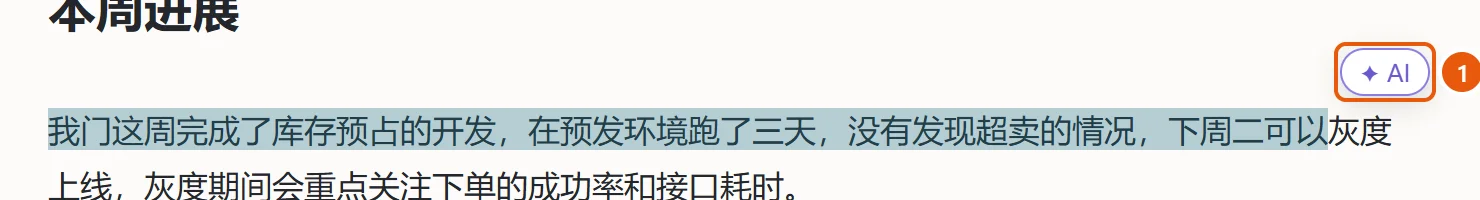
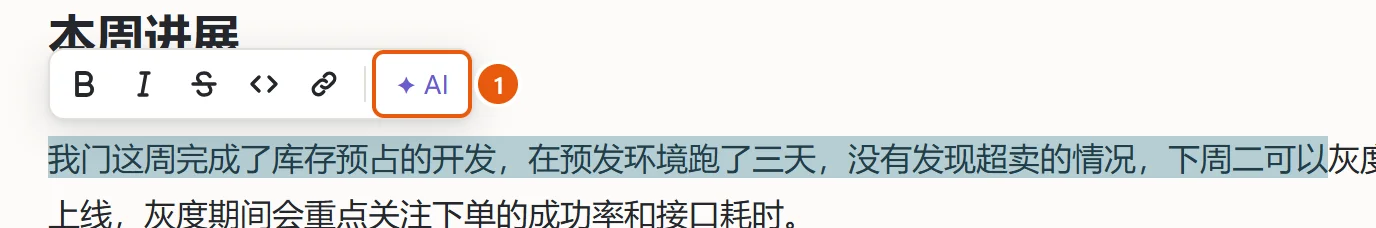
2.3.0、2.4.0：同步更新日志；使用指南加上格式工具条

Changed region(s): [[0.0312, 0.0, 1.0, 0.78], [0.0312, 0.84, 0.5938, 1.0], [0.875, 0.18, 1.0, 0.54]]

diff --git a/src/content/changelog.md b/src/content/changelog.md
@@ -1,5 +1,68 @@
 <!-- 由 scripts/sync.mjs 从主仓库 docs/CHANGELOG.md 生成，不要手改 -->
 
+## 2.4.0 — 2026-10-30
+
+选中文字后，上方出现格式工具条：加粗、加链接点一下就好，不用记快捷键，也不用看 Markdown 符号。
+
+### 格式工具条
+
+- 实时预览和分栏里，选中文字停一下，选区上方出现工具条：加粗、斜体、删除线、行内代码、链接；配了 AI 模型时还有「✦ AI」（原来选区旁单独的「✦ AI」按钮并进了这里）
+- 选中的字已经是某种格式时，按钮是按下的样子，再点就去掉；点完选区还在，可以接着点别的，每点一次 `Ctrl+Z` 撤回一步
+- 点「链接」，工具条变成网址输入框，回车写成链接；已经是链接时可以改网址，清空后回车就去掉链接、文字留下；选中的字本身是网址时直接变成链接。有选区时 `Ctrl+K` 也打开这个输入框
+- 代码块、表格里和仅源码布局里不出现；设置 → 编辑器 →「选中文字时显示格式工具条」可以关掉（原来在设置 → AI，关过的仍是关的）
+
+### 加粗等格式更顺手
+
+- 只选中粗体里的几个字，再点加粗（或 `Ctrl+B`）也能去掉整段粗体
+- 选区两头的空格不会被包进标记里；选了几段时每段分别加，不会写出跨段的标记
+- 选区只有一部分是粗体时，整段变成一个粗体
+- 行内代码里不再套别的格式
+
+### 实时预览
+
+- 选中文字时不再露出 `**`、`#` 这些符号，选中的字不会挪动；只有光标单独停在格式里时才露出
+- 在粗体里按下鼠标开始拖选时，字不会在鼠标下面挪动
+
+## 2.3.0 — 2026-10-30
+
+有了完整的使用指南，在应用里随时打开。这台电脑上装了 Claude Code 的，可以直接拿它当 AI 模型。原来只有快捷键的功能，都补上了按钮和菜单。
+
+### 使用指南
+
+- 官网新增[使用指南](https://marlin-md.cn/guide/)：26 章加附录，每个功能在哪里、怎么用、用完是什么样，配了截图
+- ☰ →「帮助」→「使用指南」打开它；设置每一页底部的「这一页的说明」打开对应的章节
+- 起始页底部有「第一次用？看看 5 分钟上手」，打开过 10 个文件后不再显示
+
+### 用本机的 Claude Code 当模型
+
+- 设置 → AI → 添加模型，选「Claude Code（用你的订阅）」：不用密钥和接口地址，用这台电脑上已登录的 Claude Code 回答
+- 它在一个空的临时文件夹里运行，不带工具、不读你的文件；取消时随即结束
+- 没登录、用量到了上限、打开了「只用本地模型」时，会说明为什么用不了
+
+### 按钮和菜单
+
+- ☰ 菜单列出全部命令和它们的快捷键：保存、另存为、关闭标签，以及编辑、视图、显示、导出几个子菜单
+- 标题栏加了撤销、重做、查找、保存按钮；侧栏加了收起按钮；放映的工具条加了「退出」
+- 编辑器右键加了「撤销」「重做」；选中文字时还有「格式」：加粗、斜体、删除线、行内代码、链接
+- 编辑器里 `Ctrl+B` 是加粗（其他地方仍是开关侧栏）；`Ctrl+Shift+Z` 也能重做
+- 新增「另存为」：标签换成新文件，文档里的相对链接按新的位置改好
+- 设置 → 快捷键：所有快捷键按场景列出，可以按功能或按键搜索
+- 去掉了容易误按的 `Ctrl+M`（按了之后 `Tab` 不再缩进）和样式不一致的 `Ctrl+Alt+G`
+
+### 表格
+
+- 正在编辑的表格里，鼠标停在行号的上下边缘、列头的左右边缘，出现「+」，点它就在那里插入一行或一列
+- 格子里换行（`Shift+Enter`）后，编辑时直接显示成两行，不再看到 `<br>`；多行的格子里 `↑` `↓` 先在格子里上下移动
+
+### 修正
+
+- 写成 `../img/x.png`（上一级目录）的图片显示不出来
+- 拉取冲突时，编辑器里冲突块的说明多了一个「的」（「下面是我的的」）
+- AI 结果在正文里逐处预览时，「✦ AI」按钮挡住预览的字
+- 状态栏「✦ Claude Code」弹出的小窗里，最后一句说明被截掉
+- 克隆对话框的「选择…」按钮折成两行
+- AI 助手（MCP）写过的文档，阅读时不能保存
+
 ## 2.2.0 — 2026-10-26
 
 每次保存都会留一份历史，随时对比、还原。Claude Code、Codex 这类 AI 助手可以通过 MCP 直接读写 Marlin 里打开的文档（预览）。

diff --git a/src/content/guide/05-editing.md b/src/content/guide/05-editing.md
@@ -71,10 +71,25 @@
 
 选中文字后：
 
-- <kbd>Ctrl+B</kbd> 加粗，<kbd>Ctrl+I</kbd> 斜体，<kbd>Ctrl+K</kbd> 插入链接
+- 上方的格式工具条（见下一节）
+- <kbd>Ctrl+B</kbd> 加粗，<kbd>Ctrl+I</kbd> 斜体，<kbd>Ctrl+K</kbd> 加链接
 - 右键 →「格式」：加粗、斜体、删除线、行内代码、链接
 
-已经是加粗的文字再按一次，就去掉加粗。没有选中文字时，插入一对标记，光标在中间，接着打字就行。
+已经是加粗的文字再按一次，就去掉加粗；只选中粗体里的几个字也一样，整段粗体都去掉。选区两头的空格不会被包进去；选了好几段时每段分别加。没有选中文字时，插入一对标记，光标在中间，接着打字就行。
+
+## 选中文字时的格式工具条
+
+在实时预览和分栏里，选中文字停一下，选区上方出现一条工具条：
+
+<a class="shot" href="../images/format-bar.webp" target="_blank"><img src="../images/format-bar.webp" alt="选中文字后出现的格式工具条" loading="lazy" decoding="async"></a>
+
+1. 加粗、斜体、删除线、行内代码：点一下加上，再点去掉。选中的字已经是这种格式时，按钮是按下的样子
+2. 链接：工具条变成一个输入框，粘贴网址按 <kbd>Enter</kbd>（<kbd>Esc</kbd> 取消）。已经是链接时框里是原来的网址，可以改；清空后 <kbd>Enter</kbd> 去掉链接、文字留下。选中的字本身是网址时，直接变成链接
+3. ✦ AI：打开 AI 命令，见 [用 AI 写](../18-ai-writing/)。没配 AI 模型时没有这个按钮
+
+点完选区还在，可以接着点别的；每点一次，<kbd>Ctrl+Z</kbd> 撤回一步。光标在行内代码里时，加粗、斜体、删除线点不了。
+
+代码块、表格、图表里，以及仅源码布局里不出现。不想要：设置 →「编辑器」，取消「选中文字时显示格式工具条」。
 
 <a class="shot" href="../images/edit-format.webp" target="_blank"><img src="../images/edit-format.webp" alt="右键菜单里的「格式」" loading="lazy" decoding="async"></a>
 

diff --git a/src/content/guide/24-settings.md b/src/content/guide/24-settings.md
@@ -20,7 +20,7 @@
 
 ## 编辑器
 
-下次进入编辑时生效。
+下次进入编辑时生效（格式工具条马上生效）。
 
 | 项 | 默认 | 说明 |
 |---|---|---|
@@ -29,6 +29,7 @@
 | 自动换行 | 开 | 长的一行在窗口边上折下来显示 |
 | 拼写检查 | 开 | 只查英文单词，右键红线看建议或加入词典 |
 | 输入 / 插入模板 | 开 | 在行首或空格后输入 <kbd>/</kbd> 弹出插入菜单 |
+| 选中文字时显示格式工具条 | 开 | 选中文字后上方出现加粗、斜体、链接等按钮，配了模型还有「✦ AI」；改了马上生效，见 [编辑基础](../05-editing/#选中文字时的格式工具条) |
 | 图片存到 | `assets` | 粘贴、拖进来的图片存在哪个文件夹，相对文档的位置，也可以写绝对路径；留空就和文档放在一起 |
 
 ## 文件与窗口
@@ -47,7 +48,6 @@
 | 模型 | 没有 | 添加、测试、编辑、删除，见 [接上一个模型](../17-ai-setup/) |
 | 默认模型 | 第一个添加的 | |
 | 只用本地模型 | 关 | 打开后只能用本机的模型 |
-| 选中文字时显示 ✦ AI 按钮 | 开 | |
 | 命令 →「打开命令文件夹」 | | 自己写的命令，见 [自定义命令](../20-ai-summary-commands/#自定义命令) |
 | MCP →「允许外部 AI 助手连接 Marlin」 | 关 | 以及一键接入 Claude Code 等，见 [MCP](../21-mcp/) |
 

diff --git a/src/content/guide/appendix.md b/src/content/guide/appendix.md
@@ -52,11 +52,12 @@ Marlin 不会在你的文档文件夹里放任何别的文件。
 
 ## 版本与功能
 
-指南按 Marlin 2.3 编写。每个功能是哪一版加的：
+指南按 Marlin 2.4 编写。每个功能是哪一版加的：
 
 | 版本 | 日期 | 加了什么 |
 |---|---|---|
-| 2.3 | 2026-10 | 用本机的 Claude Code 当模型；表格行列之间的「+」；保存、撤销、查找等在标题栏和 ☰ 菜单里都有按钮，另存为 |
+| 2.4 | 2026-10-30 | [格式工具条](../05-editing/#选中文字时的格式工具条)；实时预览里选中文字时不露符号 |
+| 2.3 | 2026-10-30 | 用本机的 Claude Code 当模型；表格行列之间的「+」，格子里的换行直接显示；保存、撤销、查找等在标题栏和 ☰ 菜单里都有按钮，另存为；本指南 |
 | 2.2 | 2026-10-26 | [文档历史](../14-history/)；[MCP](../21-mcp/)（预览） |
 | 2.1 | 2026-10-25 | [AI](../18-ai-writing/)：润色、翻译、续写、画图、摘要、自定义命令 |
 | 2.0.3 | 2026-10-23 | 状态栏字数；多光标；<kbd>Tab</kbd> 跳出括号；宽表格首列固定 |

diff --git a/src/content/guide/18-ai-writing.md b/src/content/guide/18-ai-writing.md
@@ -11,15 +11,15 @@
 任选一种：
 
 - <kbd>Ctrl+J</kbd>
-- 选中文字停一下，旁边出现「✦ AI」，点它
+- 选中文字停一下，上方出现格式工具条，点最右边的「✦ AI」
 - 编辑器里右键 →「AI 润色」「AI 修正错别字和语法」，或「AI 命令…」
 - ☰ →「编辑」→「AI 命令…」
 
 阅读时按 <kbd>Ctrl+J</kbd>，Marlin 会先进入编辑，再打开命令面板。
 
-<a class="shot" href="../images/ai-button.webp" target="_blank"><img src="../images/ai-button.webp" alt="选中后的「✦ AI」" loading="lazy" decoding="async"></a>
+<a class="shot" href="../images/ai-button.webp" target="_blank"><img src="../images/ai-button.webp" alt="格式工具条上的「✦ AI」" loading="lazy" decoding="async"></a>
 
-不想看到这个按钮：设置 →「AI」，取消「选中文字时显示 ✦ AI 按钮」。
+工具条的其他按钮见 [编辑基础](../05-editing/#选中文字时的格式工具条)。不想看到工具条：设置 →「编辑器」，取消「选中文字时显示格式工具条」。
 
 ## 命令面板
 

diff --git a/src/content/guide/06-live-preview.md b/src/content/guide/06-live-preview.md
@@ -8,7 +8,7 @@
 
 ## 符号只在光标所在处露出来
 
-标题、加粗、斜体、链接、列表、引用、提示框都按阅读时的样子显示。光标移到哪里，哪里才露出 Markdown 的符号，方便你改；光标离开，又恢复成排好版的样子。
+标题、加粗、斜体、链接、列表、引用、提示框都按阅读时的样子显示。光标移到哪里，哪里才露出 Markdown 的符号，方便你改；光标离开，又恢复成排好版的样子。选中文字时不露符号，选中的字不会挪动；要加粗、加链接，用选区上方的 [格式工具条](../05-editing/#选中文字时的格式工具条)。
 
 <a class="shot" href="../images/live-reveal.webp" target="_blank"><img src="../images/live-reveal.webp" alt="光标移到哪里，哪里露出符号" loading="lazy" decoding="async"></a>
 

diff --git a/src/content/guide/17-ai-setup.md b/src/content/guide/17-ai-setup.md
@@ -77,7 +77,6 @@ Marlin 的 AI 功能（润色、翻译、续写、画图、摘要……）要用
 |---|---|
 | 默认模型 | 添加了几个模型时，AI 命令默认用哪个；在命令面板底部可以临时换 |
 | 只用本地模型 | 打开后，云端模型和 Claude Code 都不能用 |
-| 选中文字时显示 ✦ AI 按钮 | 选中一段文字停一下，旁边出现「✦ AI」，见 [用 AI 写](../18-ai-writing/) |
 | 命令 →「打开命令文件夹」 | 自己写的命令放这里，见 [摘要与自定义命令](../20-ai-summary-commands/) |
 | MCP | 让 Claude Code 这类助手连接 Marlin，见 [让外部 AI 助手连接 Marlin](../21-mcp/) |
 
